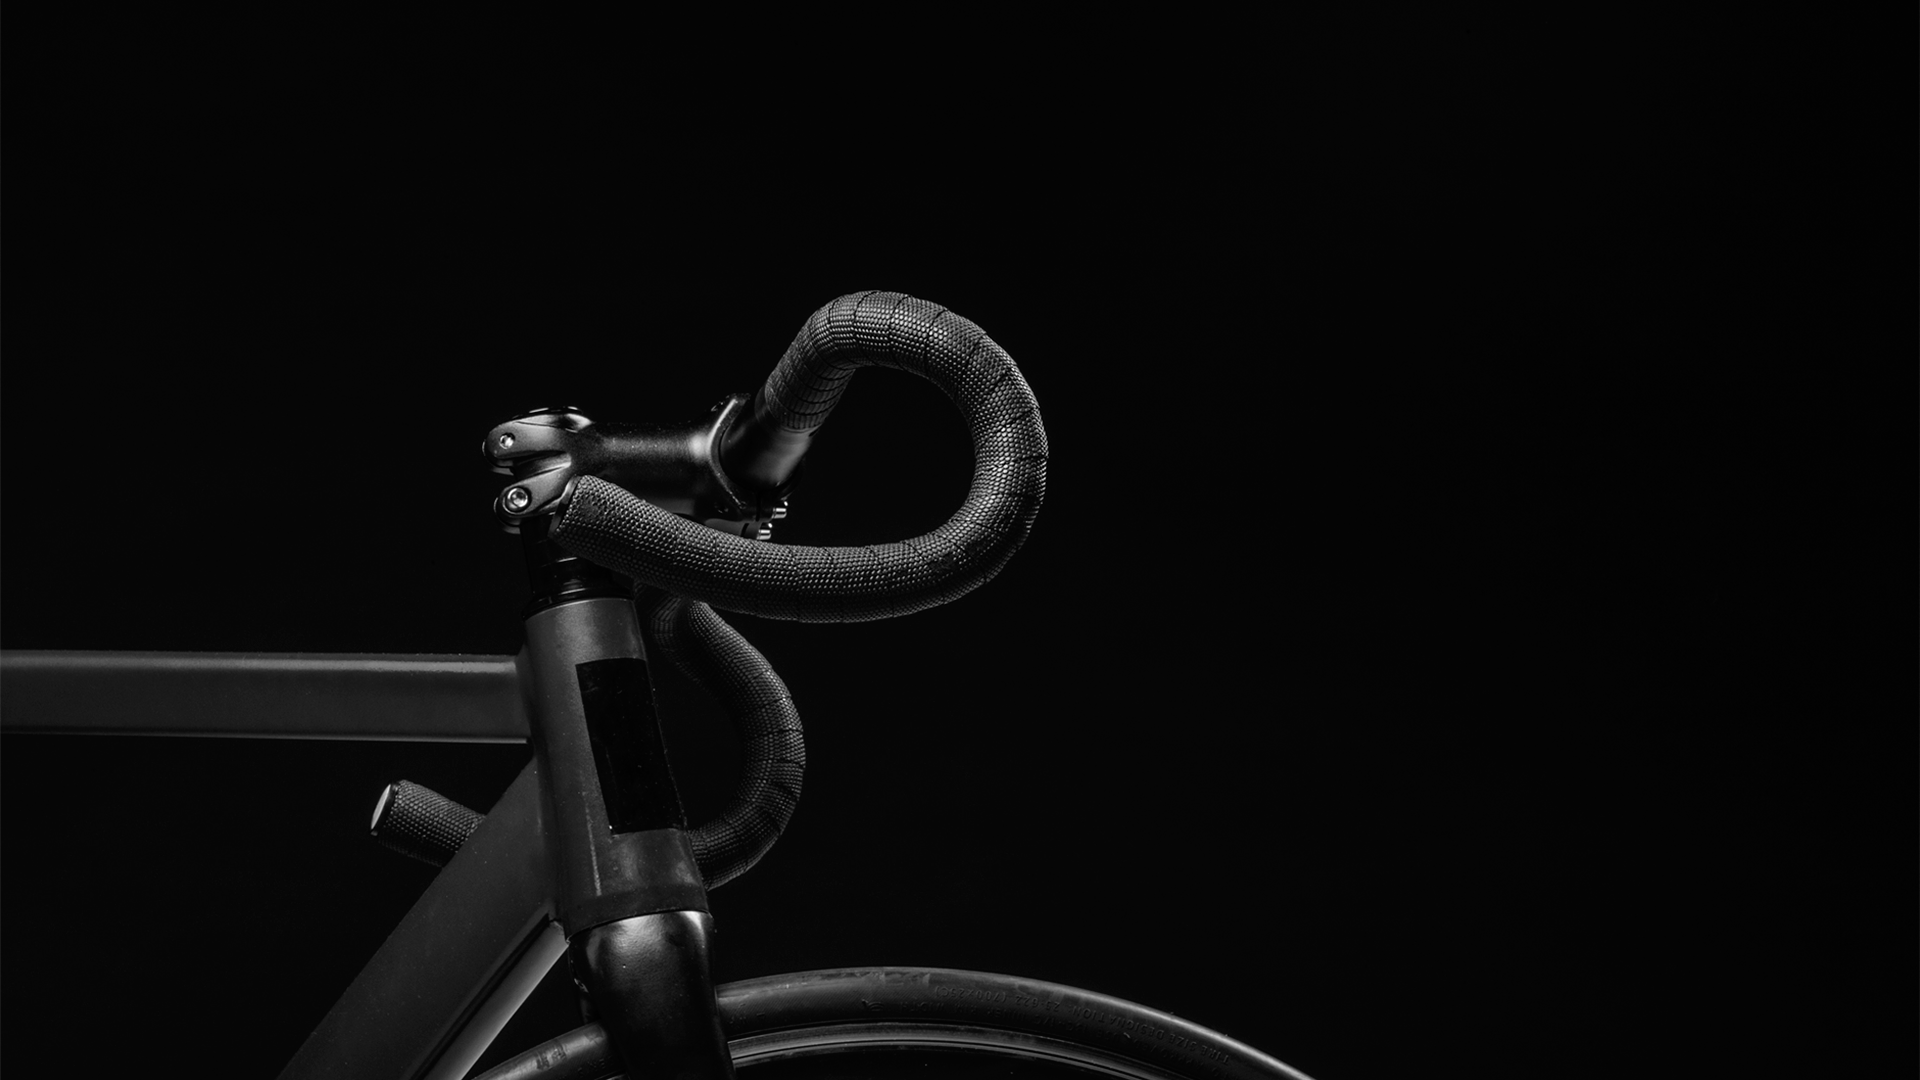
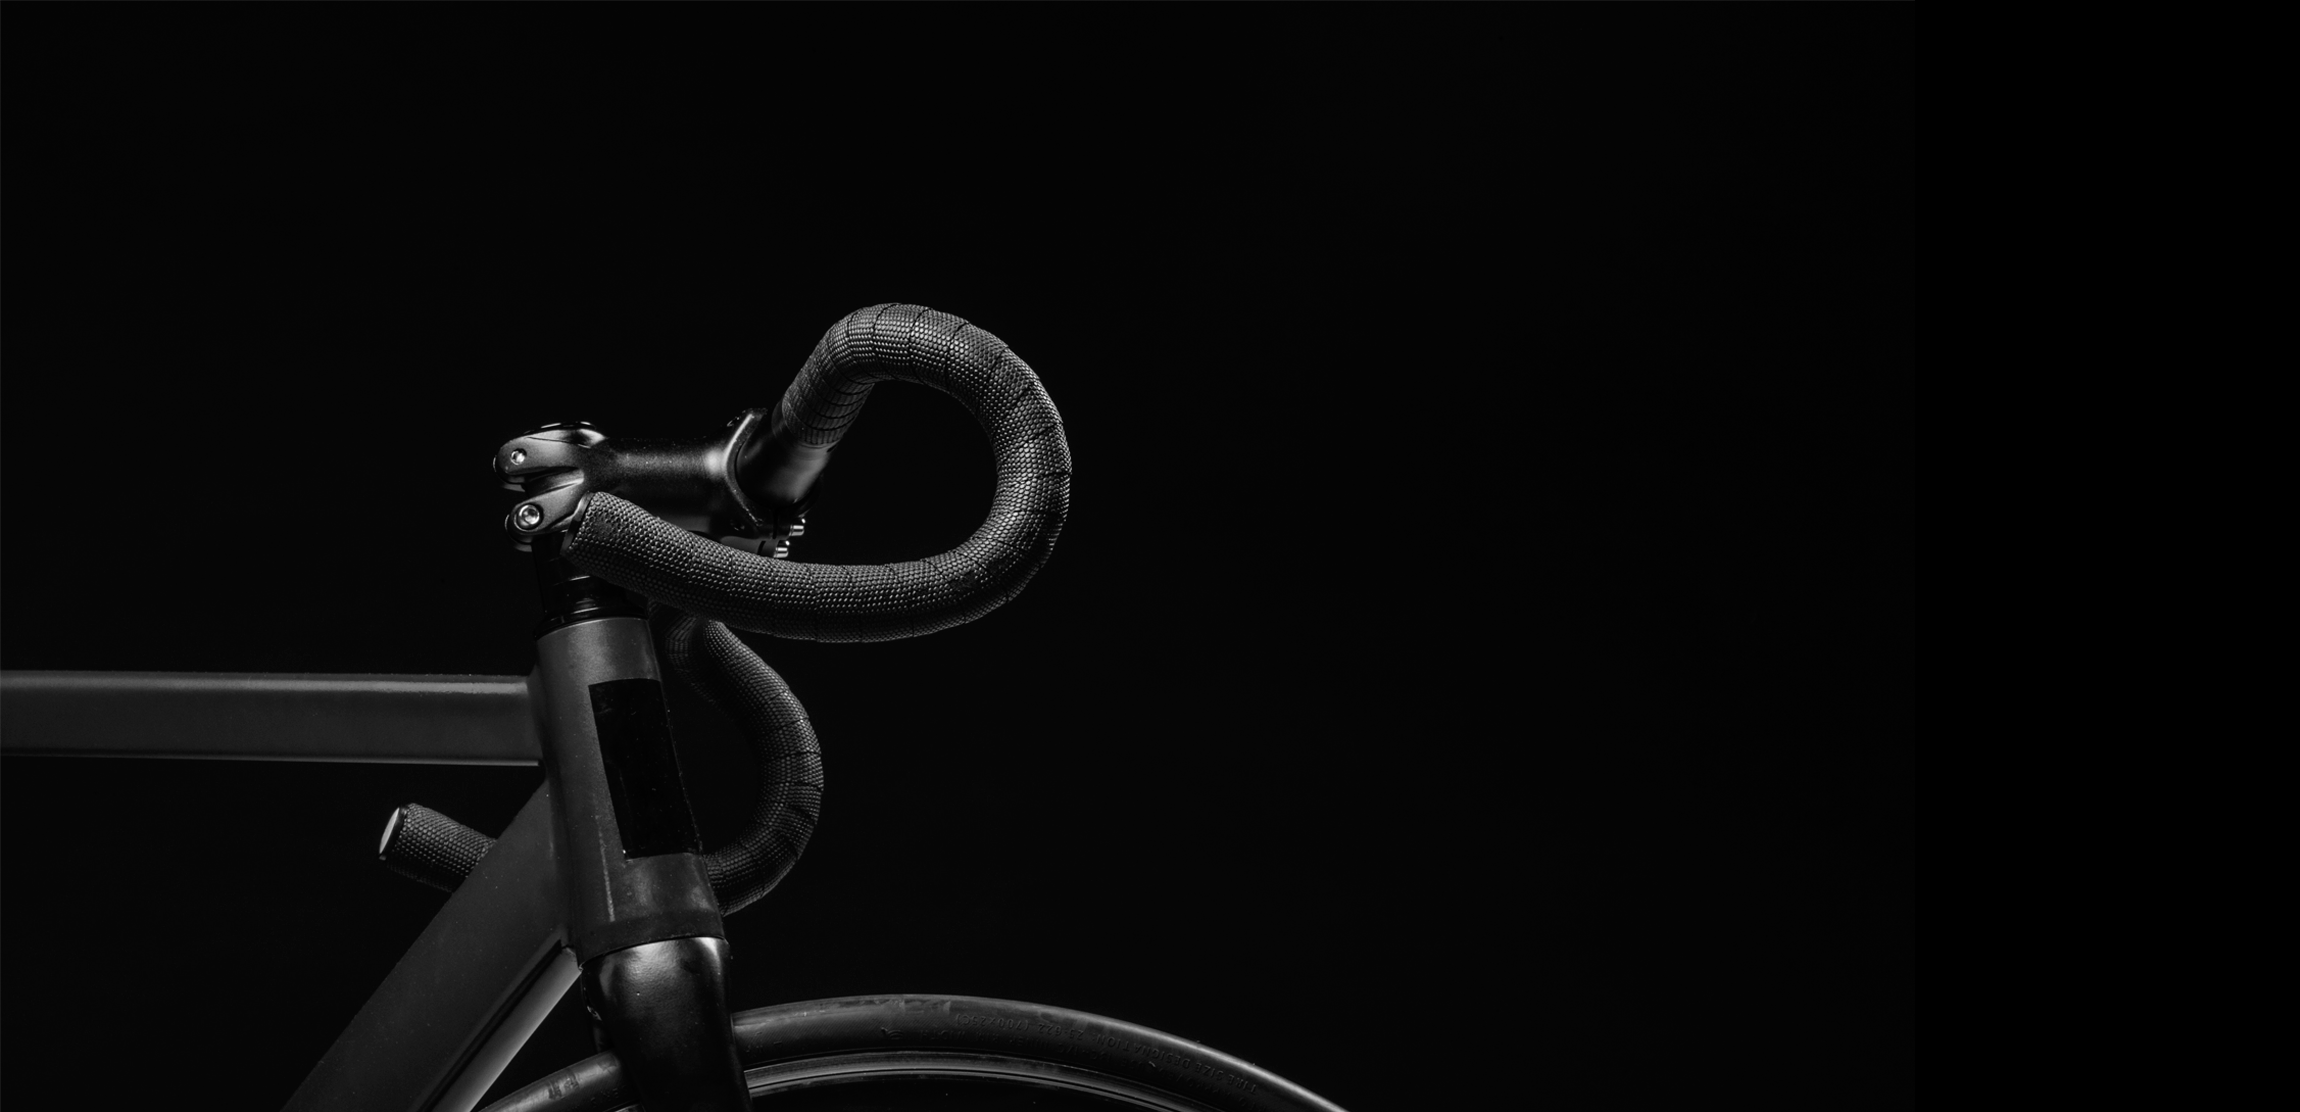
Finish outline for welcome block styles

Changed region(s): [[0.125, 0.2444, 0.6562, 1.0], [0.6562, 0.9778, 0.6875, 1.0]]

diff --git a/index.html b/index.html
@@ -20,11 +20,11 @@
                 </ul>
             </nav>
         </section>
-        <section class="logo-and-menu">
-            <h1 class="welcome-headline">Welcome to wheels</h1>
-            <blockquote class="welcome-quote">
-                <p class="welcome-quote-text">Quote</p>
-                <cite class="welcome-quote-author">Author</cite>
+        <section class="welcome-title">
+            <h1 class="welcome-title-headline">Welcome to wheels</h1>
+            <blockquote class="welcome-title-quote">
+                <p class="welcome-title-quote-text">Quote</p>
+                <cite class="welcome-title-quote-author">Author</cite>
             </blockquote>
         </section>
     </header>

diff --git a/css/style.css b/css/style.css
@@ -4,17 +4,20 @@
     width: 100%;;
     height: 100vh;
     background-image: url('../images/welcome-background.png');
-    object-fit: fill;
+    background-size: cover;
+    background-repeat: no-repeat;
 
+    
+    
     color: #ededed;
 }
 
 .logo-and-menu {
     display: flex;
     justify-content: space-between;
-
+    
     padding: 10.6vh 10vw;
-
+    
     text-transform: uppercase;
 }
 
@@ -34,6 +37,17 @@
     display: none;
 }
 
-.welcome-headline {
+.welcome-title {
+    padding-top: 20vh;
+    padding-right: 10vw;
+    float: right;
+}
+
+.welcome-title-headline {
     font-size: 3rem;
+}
+
+.welcome-title-quote {
+    text-align: right;
+    font-size: 1.5rem;
 }

diff --git a/css/mobile-styles.css b/css/mobile-styles.css
@@ -1,2 +1,6 @@
-@import "reset.css";
-@import "style.css";
+@media screen and (max-width: 1200px) {
+    .welcome-block {
+
+        background-size: contain;
+    }   
+}
